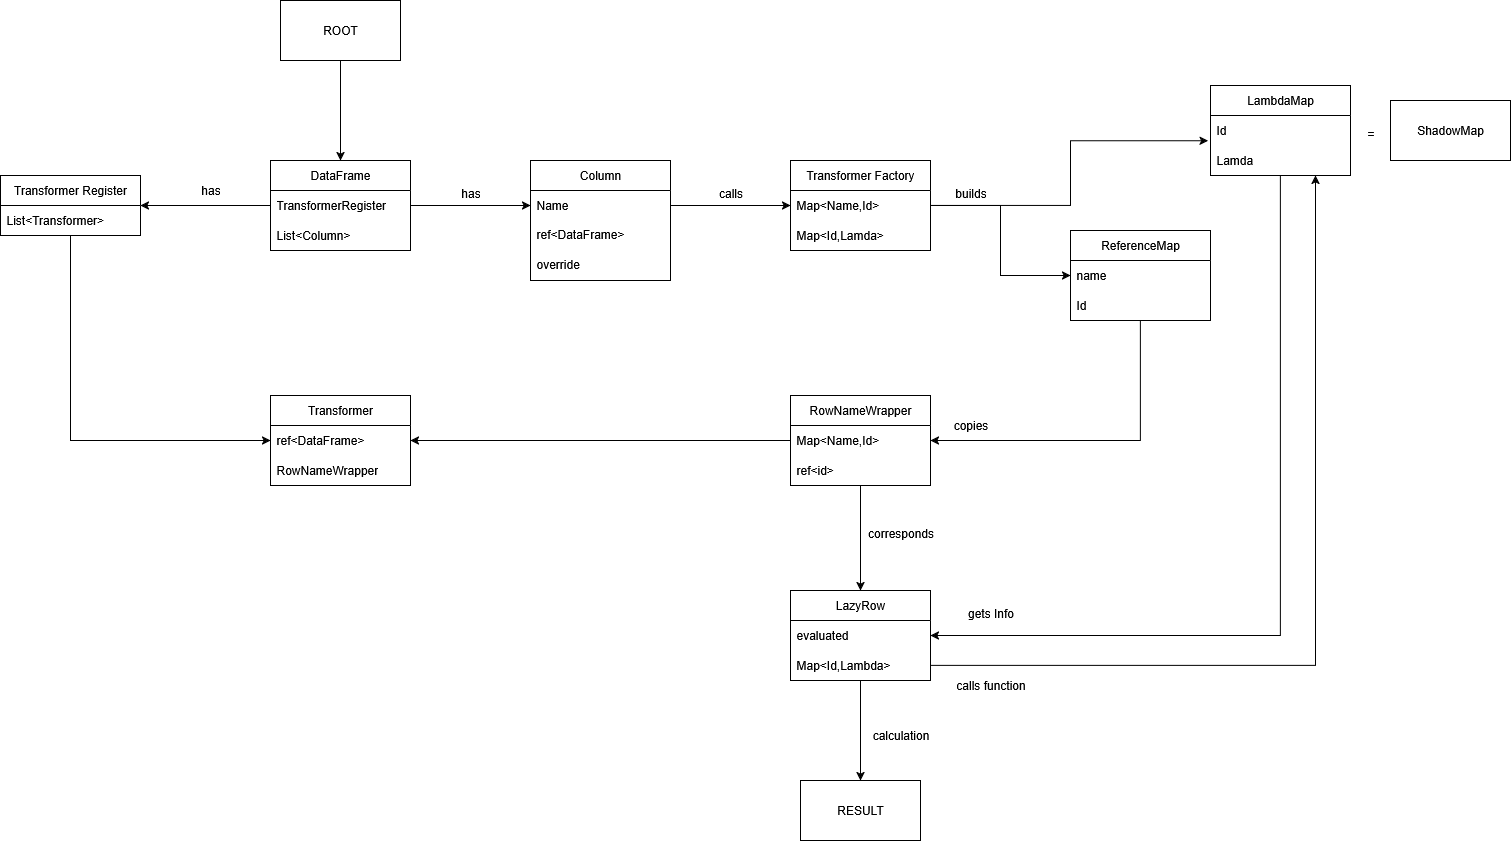
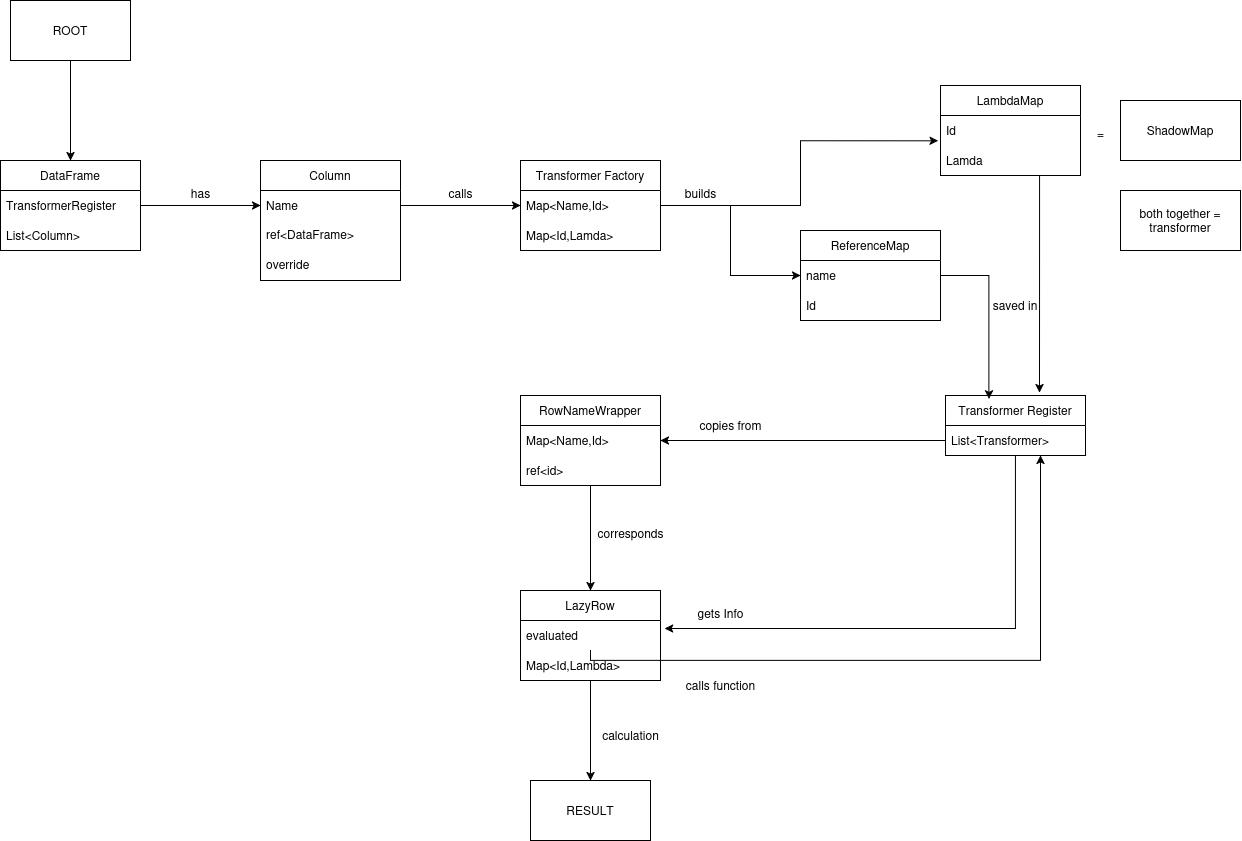
update model

diff --git a/src/main/java/ubi/data/transformers/TransformerFactory.java b/src/main/java/ubi/data/transformers/TransformerFactory.java
@@ -1,0 +1,7 @@
+package ubi.data.transformers;
+
+public class TransfomerFactory {
+
+    private ReferenceMap referenceMap;
+    private OperationMap operationMap;
+}
